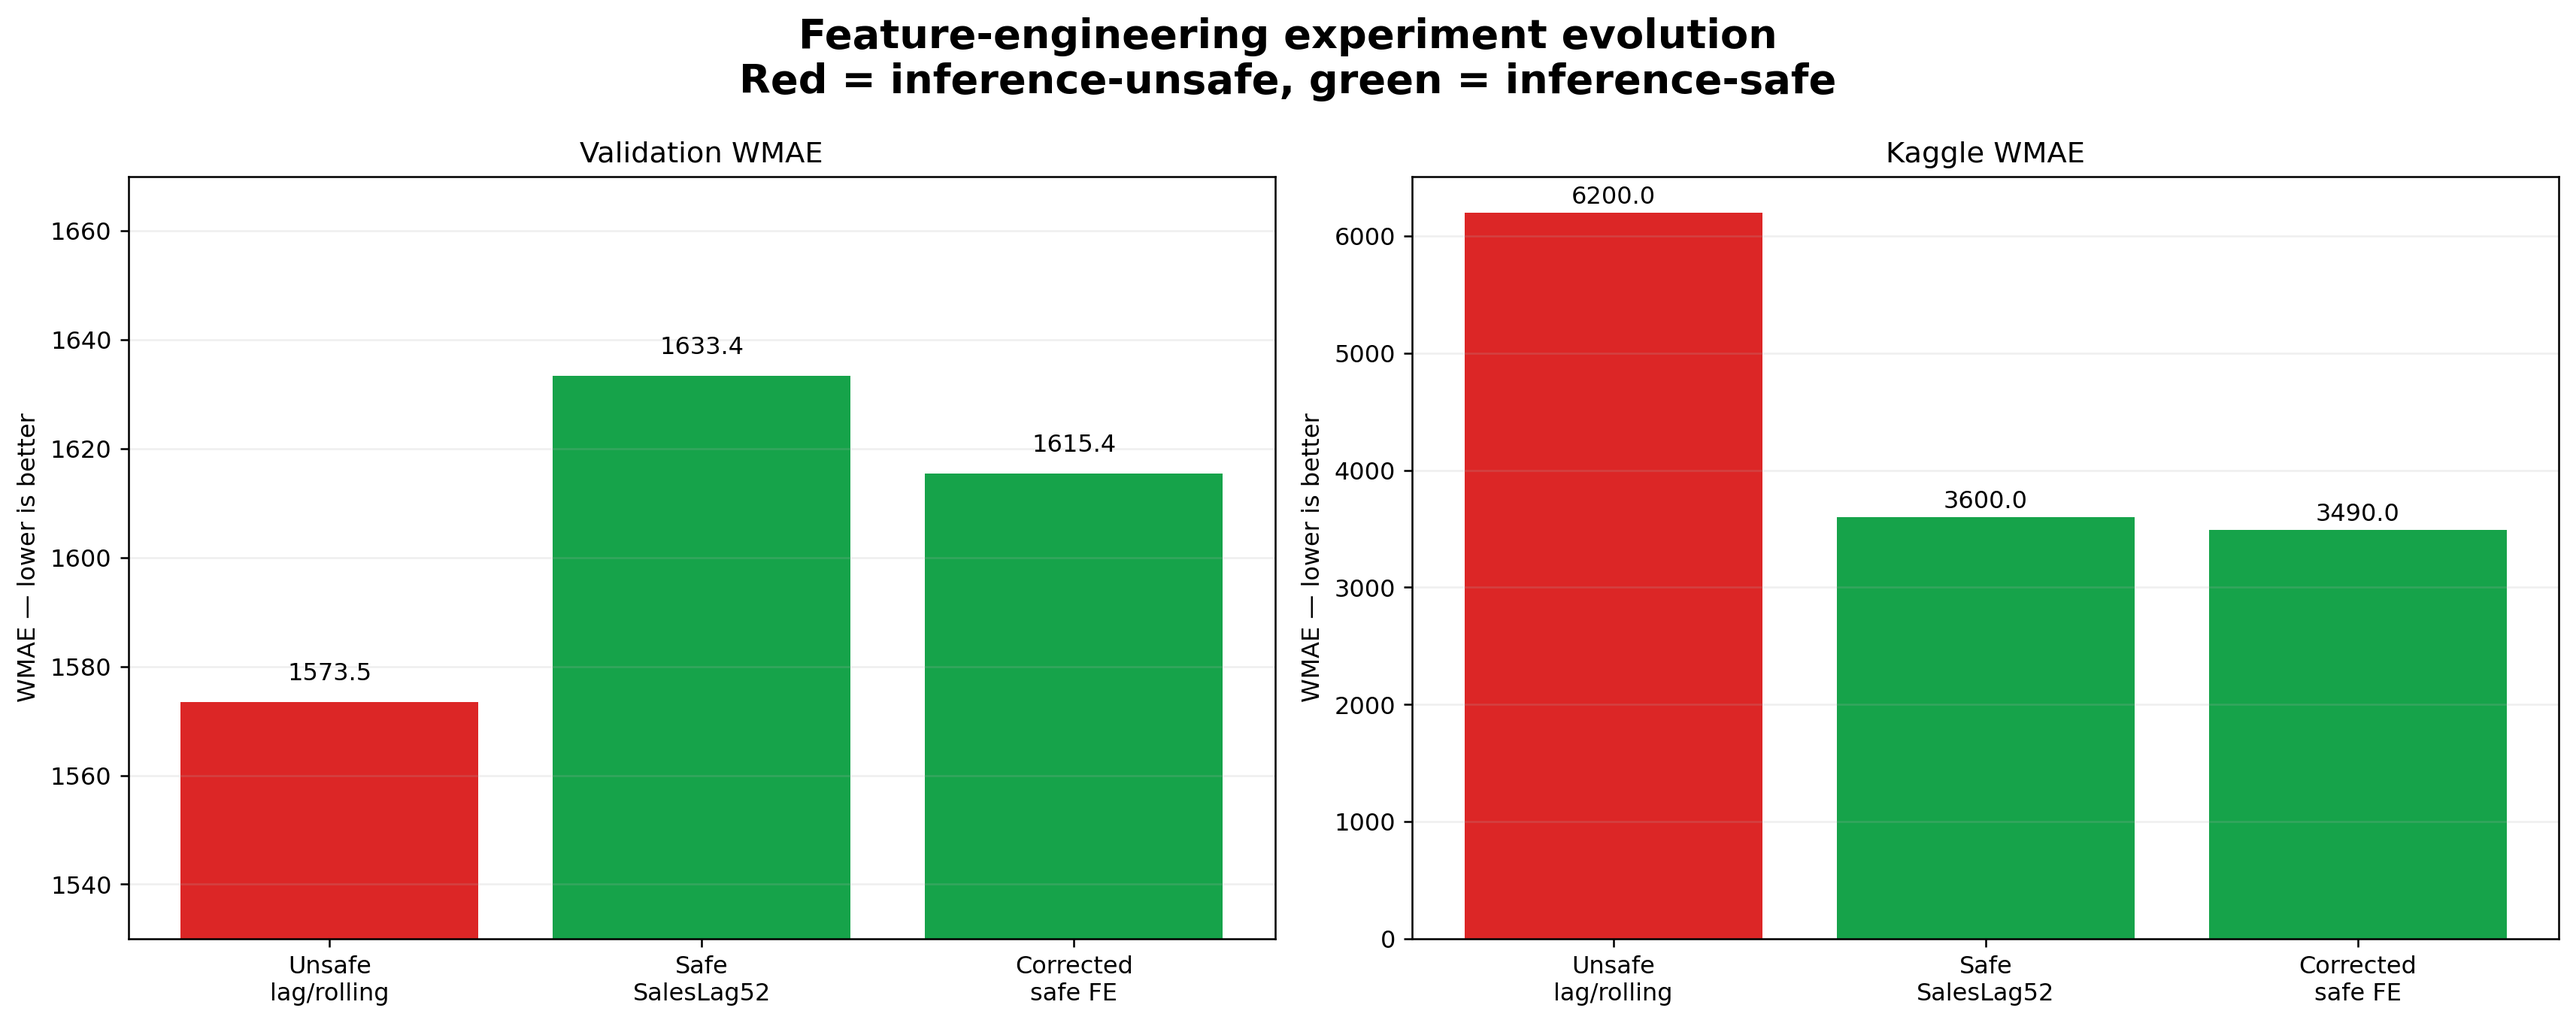
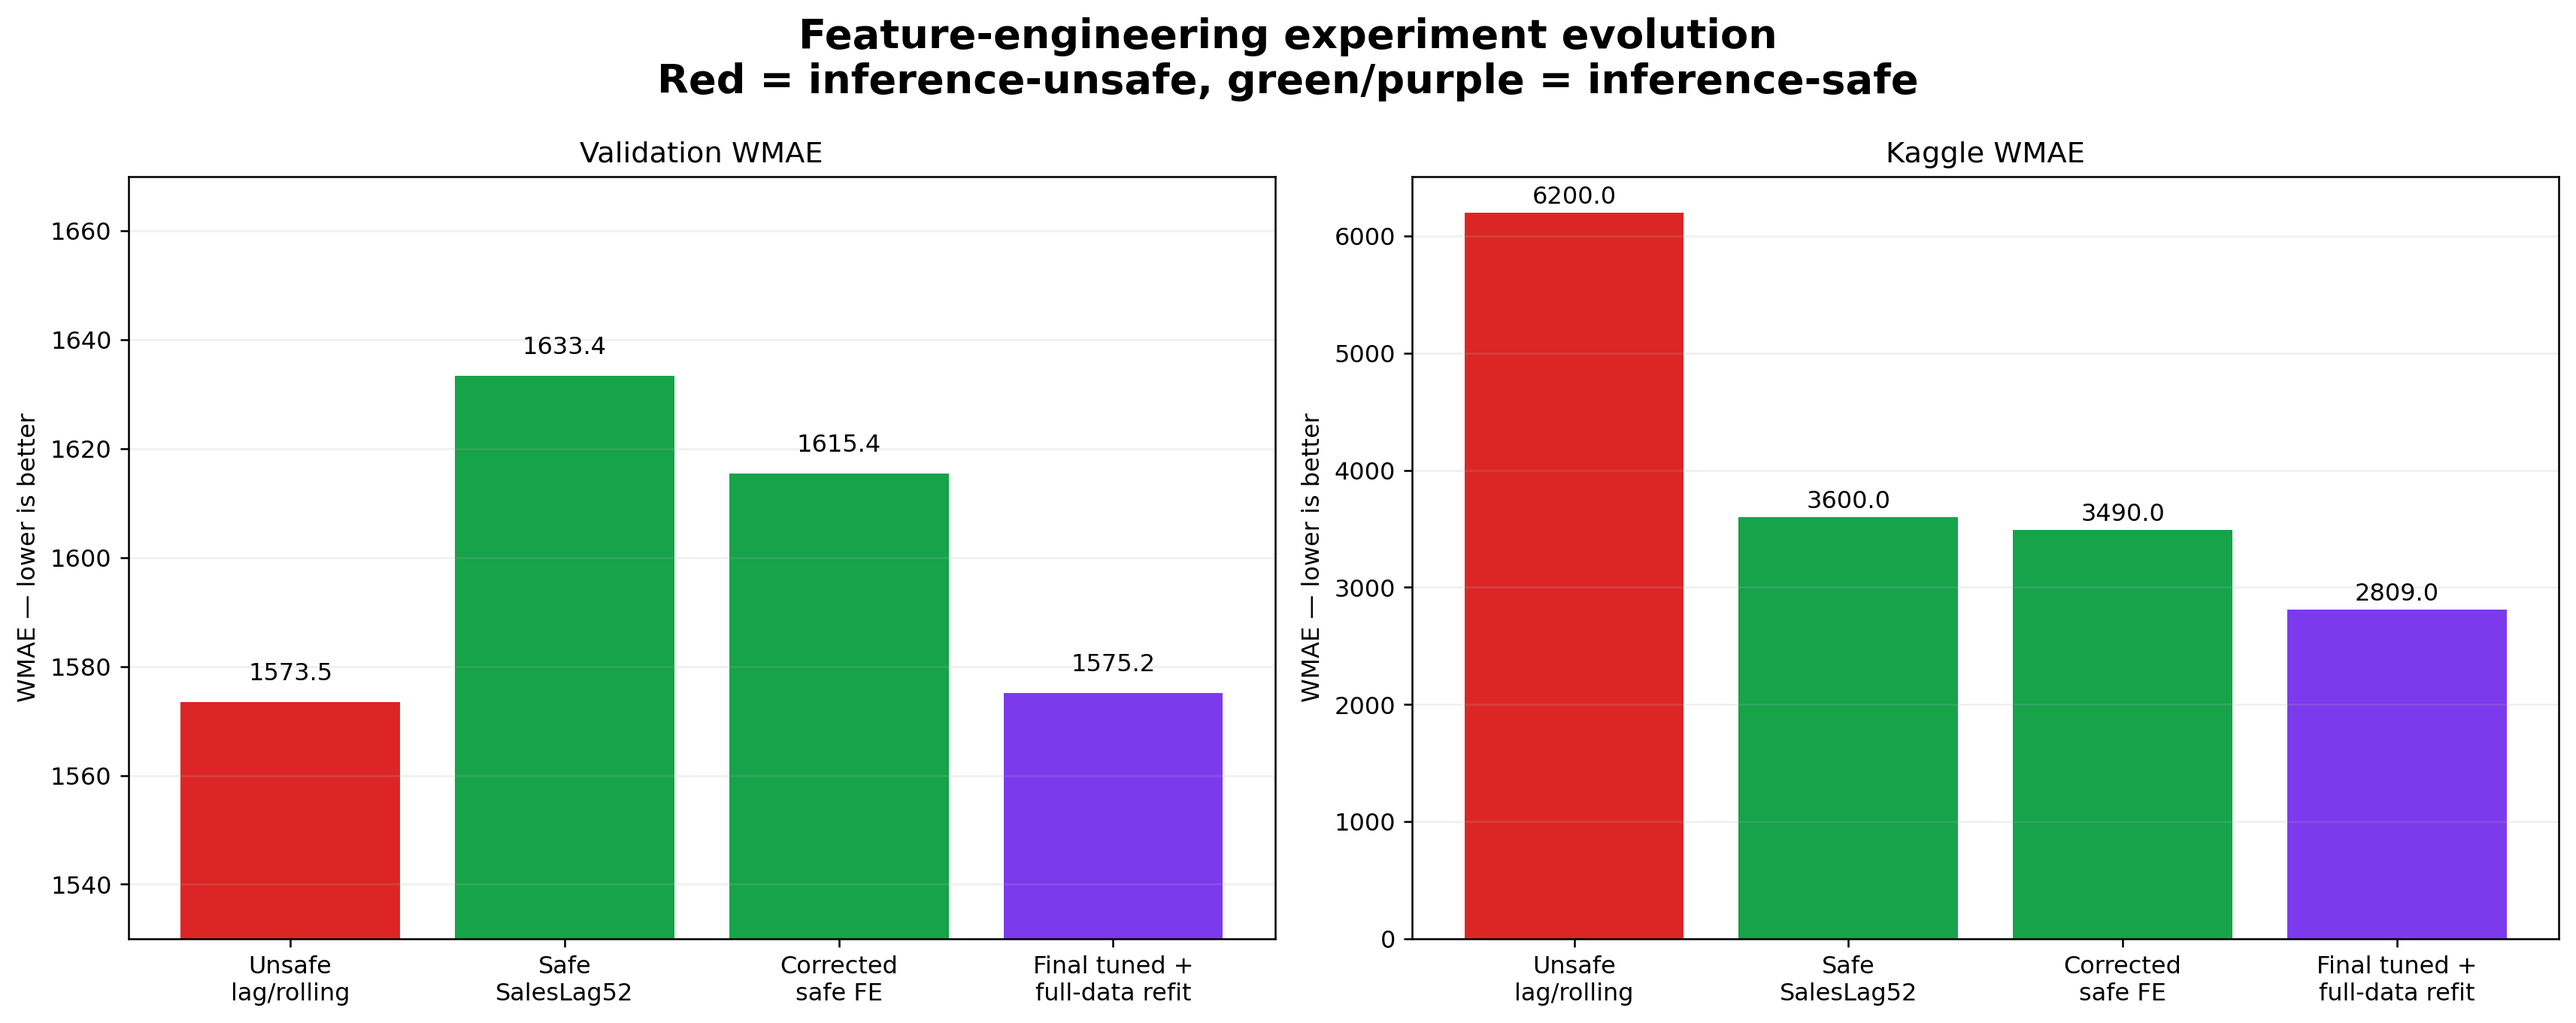
images added ligtgbm

diff --git a/models/tree_based/lightgbm/generate_model_experiment_figures.py b/models/tree_based/lightgbm/generate_model_experiment_figures.py
@@ -63,29 +63,47 @@ def trial_comparison():
 
 
 def experiment_evolution():
-    labels = ["Unsafe\nlag/rolling", "Safe\nSalesLag52", "Corrected\nsafe FE"]
-    validation = [1573.4988, 1633.3693, 1615.4495]
-    kaggle = [6200, 3600, 3490]
-    colors = [RED, GREEN, GREEN]
+    labels = ["Unsafe\nlag/rolling", "Safe\nSalesLag52", "Corrected\nsafe FE", "Final tuned +\nfull-data refit"]
+    validation = [1573.4988, 1633.3693, 1615.4495, 1575.1545]
+    kaggle = [6200, 3600, 3490, 2809]
+    colors = [RED, GREEN, GREEN, PURPLE]
     fig, axes = plt.subplots(1, 2, figsize=(15, 6))
     axes[0].bar(labels, validation, color=colors); axes[0].set_ylim(1530, 1670); axes[0].set_title("Validation WMAE")
     axes[1].bar(labels, kaggle, color=colors); axes[1].set_title("Kaggle WMAE")
     for ax, vals in zip(axes, [validation, kaggle]):
         ax.set_ylabel("WMAE — lower is better"); ax.grid(axis="y", alpha=.2)
         for i,v in enumerate(vals): ax.text(i,v+(4 if ax is axes[0] else 80),f"{v:.1f}",ha="center")
-    fig.suptitle("Feature-engineering experiment evolution\nRed = inference-unsafe, green = inference-safe", fontsize=17, weight="bold")
+    fig.suptitle("Feature-engineering experiment evolution\nRed = inference-unsafe, green/purple = inference-safe", fontsize=17, weight="bold")
     save(fig, "03_validation_vs_kaggle_experiments.png")
 
 
 def lag_transition():
-    features = ["lag_1","lag_4","lag_13","lag_52","rolling_mean_4","rolling_std_4","rolling_mean_13","rolling_std_13","SalesLag52","SalesLag52_available"]
-    matrix = np.array([[1,0]]*8 + [[0,1],[0,1]])
-    fig, ax = plt.subplots(figsize=(9, 8)); ax.imshow(matrix, cmap="RdYlGn", vmin=0, vmax=1, aspect="auto")
-    ax.set_xticks([0,1],["Old unsafe experiment","Final safe experiment"],rotation=10); ax.set_yticks(range(len(features)),features)
-    for r in range(10):
-        for c in range(2): ax.text(c,r,"USED" if matrix[r,c] else "REMOVED",ha="center",va="center",fontsize=9)
-    ax.set_title("Removal of inference-unsafe lag and rolling features", fontsize=16, weight="bold")
-    save(fig, "04_lag_rolling_to_safe_lag52.png")
+    rows = [
+        "lag_1 / lag_4 / lag_13",
+        "rolling mean/std (4, 13)",
+        "positional lag_52",
+        "exact-date SalesLag52",
+        "SalesLag52_available",
+        "aggregate mean/median/std",
+        "aggregate count features",
+        "calendar/holiday/markdown FE",
+        "all engineered features retained",
+        "full-data production refit",
+    ]
+    columns = ["Unsafe lag/rolling", "Safe SalesLag52", "Corrected safe FE", "Final best — 2809"]
+    # 0 = absent/removed, 1 = used. This matrix summarizes the documented experiment configurations.
+    matrix = np.array([
+        [1,0,0,0], [1,0,0,0], [1,0,0,0],
+        [0,1,1,1], [0,1,1,1], [1,1,1,1],
+        [0,0,1,1], [1,1,1,1], [0,0,1,1], [0,0,0,1],
+    ])
+    fig, ax = plt.subplots(figsize=(13, 9)); ax.imshow(matrix, cmap="RdYlGn", vmin=0, vmax=1, aspect="auto")
+    ax.set_xticks(range(4), columns, rotation=12); ax.set_yticks(range(len(rows)), rows)
+    for r in range(len(rows)):
+        for c in range(4): ax.text(c,r,"USED" if matrix[r,c] else "NO",ha="center",va="center",fontsize=9)
+    ax.set_title("LightGBM experiment feature retention and final-training changes", fontsize=16, weight="bold")
+    ax.text(.5,-.12,"The final 2809 model keeps inference-safe features, removes short target lags/rolling windows, and refits on all labeled data.",transform=ax.transAxes,ha="center",color=PURPLE,weight="bold")
+    save(fig, "04_feature_retention_across_experiments.png")
 
 
 def feature_groups():
